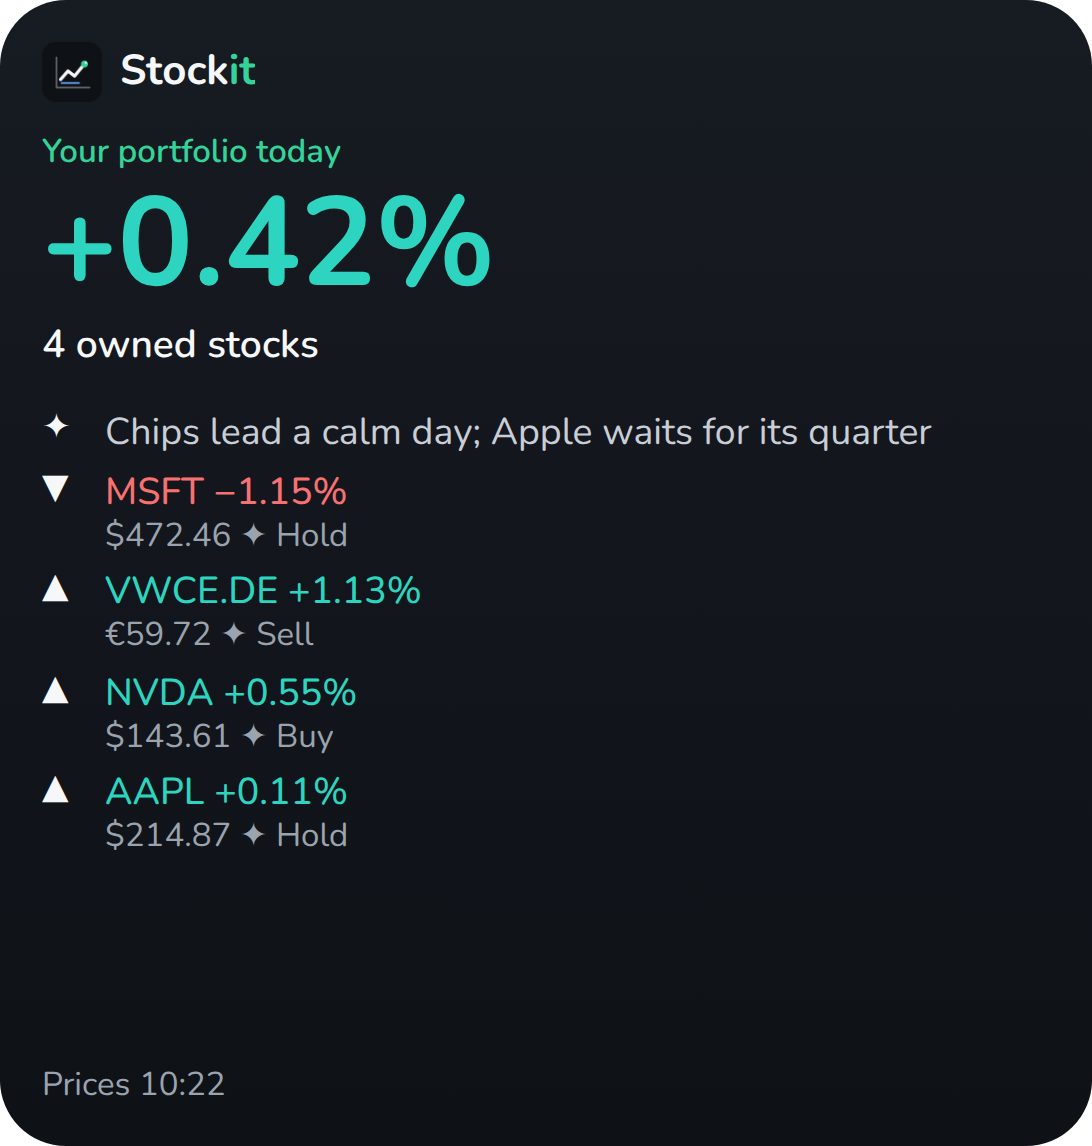
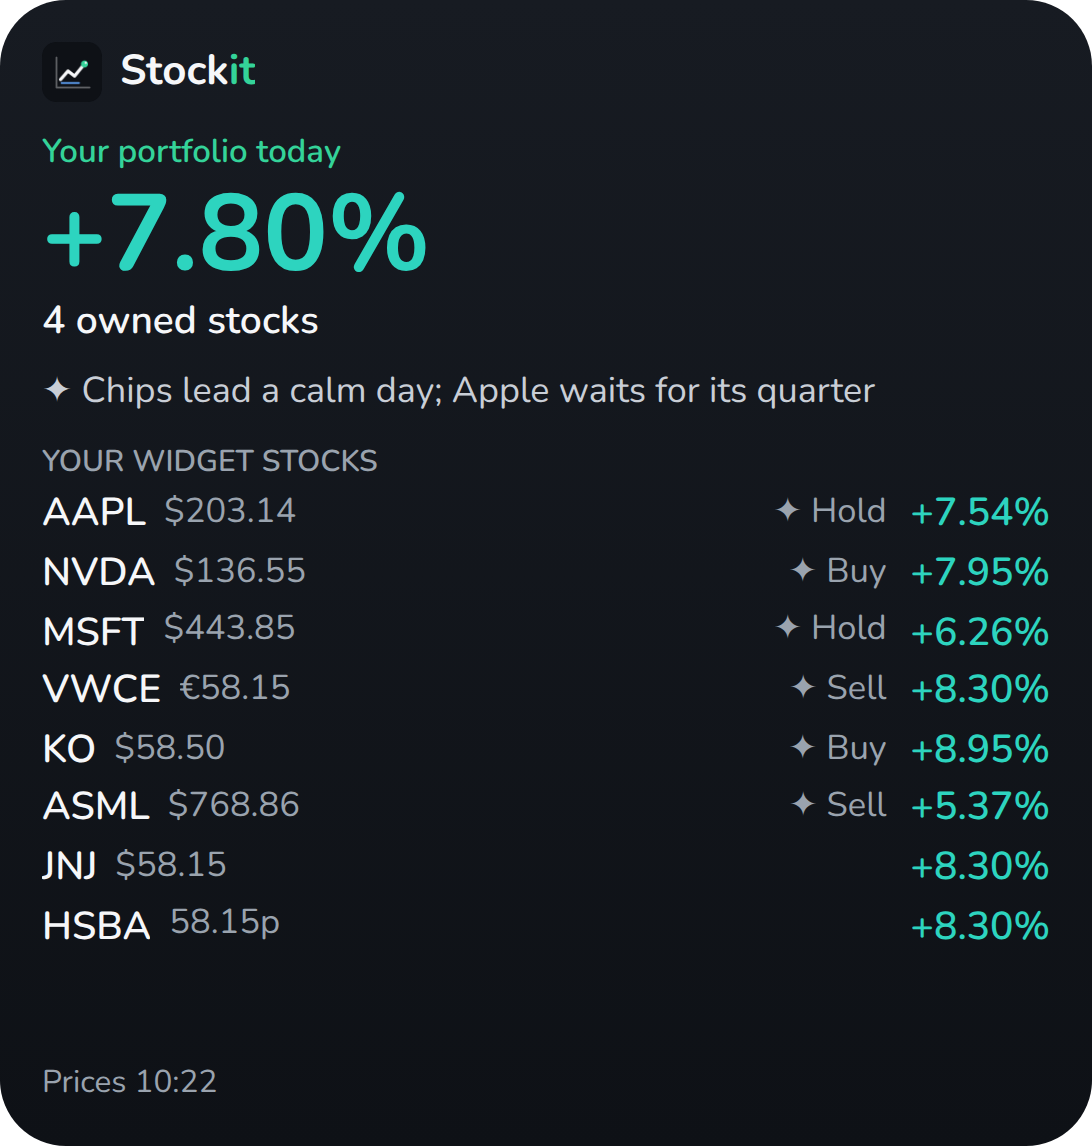
Stockit 1.21.0: pin stocks to the widget, compact 8-ticker widget, hide amounts from Shortcuts (Back Tap)

diff --git a/Stockit.js b/Stockit.js
@@ -29,7 +29,7 @@
  */
 
 // This build's version. When releasing, bump it and add a matching entry to releases.json.
-const VERSION = '1.20.3';
+const VERSION = '1.21.0';
 const APP_ID = 'stockit';   // unique per app, never changes
 const REPO_RAW = 'https://raw.githubusercontent.com/gadominas/StockIt/main/';
 const SCRIPT_FILE = 'Stockit.js';   // the script's file name in the repository
@@ -1781,7 +1781,7 @@ function clientState() {
   const view = x => {
       const m = market[x.s] || {};
       return {
-        s: x.s, name: m.name || x.name || x.s, exch: m.exch || x.exch || "", list: x.list, sh: x.sh || 0, cost: x.cost || 0, pin: !!x.pin, hl: !!x.hl, idx: stocks.indexOf(x),
+        s: x.s, name: m.name || x.name || x.s, exch: m.exch || x.exch || "", list: x.list, sh: x.sh || 0, cost: x.cost || 0, pin: !!x.pin, hl: !!x.hl, wpin: !!x.wpin, idx: stocks.indexOf(x),
         price: m.price, prev: m.prev, cur: m.cur || "", mt: m.mt || 0, tz: m.tz || "", tp: m.tp || null, type: m.type || "", at: m.at || 0, err: m.err || null, pts: m.pts || [],
         st: stats(m), trend: trendOf(m), f: m.f || {}, fAt: m.fAt || 0, prof: m.prof || null, news: m.news || [], newsAt: m.newsAt || 0, crowd: m.crowd || null,
         sig: sigFor(x.s), bstory: insights.briefing && insights.briefing.stocks && insights.briefing.stocks[x.s] ? insights.briefing.stocks[x.s].story : "",
@@ -1982,7 +1982,7 @@ async function handle(m) {
     }
     case "mark": {   // pin to the top of its list, or highlight
       const y = stocks.find(z => z.s === m.s);
-      if (y && (m.k === "pin" || m.k === "hl")) { if (m.v) y[m.k] = true; else delete y[m.k]; write("stocks", stocks); }
+      if (y && (m.k === "pin" || m.k === "hl" || m.k === "wpin")) { if (m.v) y[m.k] = true; else delete y[m.k]; write("stocks", stocks); if (m.k === "wpin") saveWidget(widgetSnapshot()); }
       return push();
     }
     case "move": if (x) { x.list = m.v === "own" ? "own" : "watch"; if (x.list === "own" && !x.sh) await editHolding(x); saveAll(); push(); saveWidget(widgetSnapshot()); } return;
@@ -2654,7 +2654,7 @@ function clientApp() {
     if (!items.length) return head + `<section class="empty small"><p>${tab === "own" ? "No owned stocks yet. Open one from your watchlist and tap <b>I own this</b>, or add one with +." : "Nothing on your watchlist. Add stocks you're curious about with +."}</p></section>`;
     const sorts = [["mine", "Mine"]].concat(tab === "own" ? [["value", "Value"]] : []).concat([["today", "Today"], ["signal", "Signal"], ["az", "A–Z"]]);
     const cur = tab === "watch" && sort === "value" ? "today" : sort;
-    if (arrange) return head + `<div class="listbar arr-bar"><span>Drag ≡ to move · 📌 pins to the top · ★ highlights</span><button class="sm primary" data-act="arrange" data-v="0">Done</button></div>
+    if (arrange) return head + `<div class="listbar arr-bar"><span>Drag ≡ to move · 📌 top of the list · ▦ on the widget · ★ highlight</span><button class="sm primary" data-act="arrange" data-v="0">Done</button></div>
       <div class="rows arr-rows" data-list="${tab === "own" ? "own" : "watch"}">${sortRows(items).map(arrRow).join("")}</div>`;
     return head + `<div class="listbar"><span>${items.length} ${tab === "own" ? "owned" : "watching"} <button class="link small" data-act="arrange" data-v="1">Arrange</button></span><div class="seg">${sorts.map(([v, l]) => `<button class="${cur === v ? "on" : ""}" data-act="sort" data-v="${v}">${l}</button>`).join("")}</div></div>
       <div class="rows">${sortRows(items).map(row).join("")}</div>`;
@@ -2746,12 +2746,21 @@ function clientApp() {
   document.addEventListener("touchcancel", () => endPull(true));
 
   // Arrange: drag rows by ≡ into your own order, pin to the top, highlight. Long-pressing a row also starts it.
+  const WID_I = `<svg class="pin-i" viewBox="0 0 24 24" aria-hidden="true"><rect x="3" y="3" width="8" height="8" rx="2" fill="currentColor"/><rect x="13" y="3" width="8" height="8" rx="2" fill="currentColor" opacity=".55"/><rect x="3" y="13" width="8" height="8" rx="2" fill="currentColor" opacity=".55"/><rect x="13" y="13" width="8" height="8" rx="2" fill="currentColor"/></svg>`;
   const PIN_I = `<svg class="pin-i" viewBox="0 0 24 24" aria-hidden="true"><path d="M15 3l6 6-3 1-4 4 .5 4.5L13 20l-4-4-5 5-1-1 5-5-4-4 1.5-1.5L10 10l4-4z" fill="currentColor"/></svg>`;
+  function widgetPicksHTML() {
+    const pins = S.stocks.filter(x => x.wpin).sort((a, b) => a.idx - b.idx);
+    return `<div class="srow col"><b>Stocks on the widget</b>
+      <small class="muted">${pins.length ? `${pins.length} pinned, in your order${pins.length > 8 ? " (the first 8 show)" : ""}: ` + pins.map(x => `<button class="chip wchip" data-act="mark" data-k="wpin" data-v="${esc(x.s)}" aria-label="Remove ${esc(x.s)} from the widget">${esc(x.s)} ×</button>`).join(" ")
+        : "None pinned, so it shows your best performers today (from the watchlist when you own none). Pin up to 8 with ▦ in Arrange or on a stock's page."}</small>
+      <small class="muted">Hide amounts without opening Stockit: in Shortcuts, add Scriptable's Run Script for Stockit with the parameter <b>hide</b> (or <b>show</b>), then choose it in Settings › Accessibility › Touch › Back Tap (Double Tap to hide, Triple Tap to show), or for the Action Button. A widget whose parameter is <b>private</b> never shows amounts.</small></div>`;
+  }
   function arrRow(x) {
     return `<div class="row arr ${x.hl ? "hl" : ""} ${x.pin ? "pinned" : ""}" data-v="${esc(x.s)}">
       <button class="drag-h" aria-label="Move ${esc(x.s)}">≡</button>
       <div class="r-l"><b class="sym">${esc(x.s)}${x.pin ? PIN_I : ""}${x.hl ? `<span class="hl-star">★</span>` : ""}</b><small>${esc(x.name)}</small></div>
       <div class="arr-btns"><button class="arr-b ${x.pin ? "on" : ""}" data-act="mark" data-k="pin" data-v="${esc(x.s)}" aria-pressed="${x.pin}" aria-label="${x.pin ? "Unpin" : "Pin to the top"}">${PIN_I}</button>
+        <button class="arr-b wid ${x.wpin ? "on" : ""}" data-act="mark" data-k="wpin" data-v="${esc(x.s)}" aria-pressed="${x.wpin}" aria-label="${x.wpin ? "Remove from the widget" : "Show on the widget"}">${WID_I}</button>
         <button class="arr-b star ${x.hl ? "on" : ""}" data-act="mark" data-k="hl" data-v="${esc(x.s)}" aria-pressed="${x.hl}" aria-label="${x.hl ? "Remove highlight" : "Highlight"}">★</button></div></div>`;
   }
   let drag = null, pressT = null, pressAt = null, swallowClick = 0;
@@ -3107,6 +3116,7 @@ function clientApp() {
         : `<button class="sm primary" data-act="move" data-v="own" data-s="${esc(x.s)}">I own this</button>`}
       <button class="sm" data-act="mark" data-k="pin" data-v="${esc(x.s)}">${x.pin ? "Unpin" : "📌 Pin to the top"}</button>
       <button class="sm" data-act="mark" data-k="hl" data-v="${esc(x.s)}">${x.hl ? "Remove highlight" : "★ Highlight"}</button>
+      <button class="sm" data-act="mark" data-k="wpin" data-v="${esc(x.s)}">${x.wpin ? "Remove from the widget" : "▦ Show on the widget"}</button>
       <button class="sm danger ${rmArmed === x.s ? "armed" : ""}" data-act="remove" data-v="${esc(x.s)}">${rmArmed === x.s ? "Confirm" : "Remove"}</button></div></section>`;
   }
 
@@ -3188,6 +3198,7 @@ function clientApp() {
       <div class="srow"><div class="grow"><b>Show your money in</b><small class="muted">Portfolio value, today and gains, here and in the widget. Stocks in other currencies are converted at today's rate. ${S.fx && S.fx.choice === "auto" ? `Auto uses the currency most of your money is in (now ${esc(HOME())}).` : ""}</small></div>
         <select id="homeCur" class="cursel" aria-label="Currency">${[["auto", "Auto"]].concat(((S.fx && S.fx.curs) || []).map(c2 => [c2, c2])).map(([v, l]) => `<option value="${v}" ${(S.fx && S.fx.choice) === v ? "selected" : ""}>${l}</option>`).join("")}</select></div>
       ${sw("widgetMoney", "Show portfolio value in the widget", "Off: the widget shows only percentages, never amounts")}
+      ${widgetPicksHTML()}
       <h3 class="sec">News and signals</h3>
       ${sw("newsYahoo", "Yahoo Finance headlines", "Business news about each stock")}
       ${sw("newsWeb", "Headlines from the web", "Wider coverage through Google News, including blogs and big newspapers")}
@@ -4127,7 +4138,7 @@ function clientApp() {
       case "tab": arrange = false; if (tab === "own" && v !== "own" && S.briefing && S.settings.briefSeen !== S.briefing.at) { S.settings.briefSeen = S.briefing.at; send("set", { k: "briefSeen", v: S.briefing.at }); } if (v !== "own") { briefFold = null; briefFull = false; } tab = v; if (v !== "ideas") send("set", { k: "tab", v }); else if (S.settings.hasKey) send("stratdue", {}); render(); window.scrollTo(0, 0); break;
       case "sort": sort = v; send("set", { k: "sort", v }); render(); break;
       case "arrange": if (v === "1") startArrange(); else { arrange = false; render(); } break;
-      case "mark": { const y = byS(v), k = t.dataset.k; if (!y) break; y[k] = !y[k]; send("mark", { s: v, k, v: y[k] }); if (openSym) renderDetail(); render(); window.toast(k === "pin" ? (y[k] ? `${v} pinned to the top` : `${v} unpinned`) : (y[k] ? `${v} highlighted` : `${v} highlight removed`)); break; }
+      case "mark": { const y = byS(v), k = t.dataset.k; if (!y) break; y[k] = !y[k]; send("mark", { s: v, k, v: y[k] }); if (openSym) renderDetail(); render(); window.toast(k === "pin" ? (y[k] ? `${v} pinned to the top` : `${v} unpinned`) : k === "wpin" ? (y[k] ? `${v} is on the widget` : `${v} left the widget`) : (y[k] ? `${v} highlighted` : `${v} highlight removed`)); break; }
       case "refresh": if (!progress) send("refresh", { force: true }); break;
       case "newsopen": openNews(t.dataset.s, v); break;
       case "fold": setFold([v], t.dataset.on === "1"); break;
@@ -4914,7 +4925,8 @@ html[data-font=serif] .tl-story p{font-family:var(--serif)}
 .arr-btns{display:flex;gap:6px;flex:none}
 .arr-b{width:40px;height:40px;border-radius:20px;display:grid;place-items:center;color:var(--muted);background:var(--sheet);box-shadow:inset 0 0 0 1px var(--rule);font-size:18px}
 .arr-b .pin-i{margin:0;width:17px;height:17px;color:inherit}
-.arr-b.on{color:var(--paper);background:var(--signal);box-shadow:none} .arr-b.star.on{background:var(--amber)}
+.arr-b.on{color:var(--paper);background:var(--signal);box-shadow:none} .arr-b.star.on{background:var(--amber)} .arr-b.wid.on{background:var(--up)}
+.srow.col{flex-direction:column;align-items:flex-start;gap:4px} .wchip{margin:2px 2px 0 0;font-size:calc(12px * var(--ts))}
 /* My strategies */
 .idea-trend{margin:14px 0 6px;line-height:1.65}
 .idea-trend .chip{margin-right:4px;vertical-align:1px}
@@ -5051,18 +5063,23 @@ window.__boot = function (st) {
 // portfolio value only when "Show portfolio value in the widget" is on. Saved after refreshes, edits and new AI text.
 function widgetSnapshot(pricesAt) {
   const tot = totals()[0] || null;
-  const rows = stocks.map(x => {
+  const all = stocks.map(x => {
     const m = market[x.s] || {}, sg = sigFor(x.s);
-    return { s: x.s, own: x.list === "own", chg: dayPct(m), price: m.price, cur: m.cur || "", sig: sg ? sg.signal : "" };
-  }).filter(r => r.chg != null);
+    return { s: x.s, own: x.list === "own", chg: dayPct(m), price: m.price, cur: m.cur || "", sig: sg ? sg.signal : "", wpin: !!x.wpin };
+  });
+  const rows = all.filter(r => r.chg != null);
   const own = rows.filter(r => r.own), base = own.length ? own : rows;
+  // The widget's stocks: the ones you pinned to it (in your order), else your best performers today, else your watchlist's
+  const pinned = all.filter(r => r.wpin), best = base.slice().sort((a, b2) => b2.chg - a.chg);
   const avg = base.length ? base.reduce((a, r) => a + r.chg, 0) / base.length : null;
   const b = insights.briefing;
   return {
     n: stocks.length, owned: stocks.filter(x => x.list === "own").length, scope: own.length ? "own" : "watch",
     dayPct: tot && tot.value - tot.day ? tot.day / (tot.value - tot.day) * 100 : avg,
     value: tot && settings.widgetMoney && !settings.privacy ? { v: tot.value, day: tot.day, cur: tot.cur } : null,   // privacy mode hides it here too
-    movers: base.slice().sort((a, b2) => Math.abs(b2.chg) - Math.abs(a.chg)).slice(0, 6),
+    movers: (pinned.length ? pinned : best).slice(0, 8),
+    pick: pinned.length ? "pinned" : own.length ? "best-own" : "best-watch",
+    private: !!settings.privacy,   // privacy mode (the eye, or a Back Tap shortcut): amounts hidden on the widget too
     headline: b && Date.now() - b.at < 48 * 3600e3 ? b.headline : "",
     prices: pricesAt || settings.lastRefresh || 0,
   };
@@ -5090,15 +5107,21 @@ async function widgetModel(param, family) {
   const rows = (d.headline && family === "large" ? [{ icon: "✦", text: d.headline, lines: 2 }] : [])
     .concat((d.movers || []).map(r => ({ icon: r.chg >= 0 ? "▲" : "▼", text: `${r.s}  ${wPct(r.chg)}`, tone: tone(r.chg),
       sub: [r.price != null ? (MINOR[r.cur] ? r.price.toFixed(2) + "p" : wMoney(r.price, r.cur)) : "", r.sig ? "✦ " + r.sig[0].toUpperCase() + r.sig.slice(1) : ""].filter(Boolean).join("  ") })));
+  const hide = d.private || /priv|hide|mask/i.test(String(param || ""));
+  const cells = (d.movers || []).map(r => ({ s: r.s.replace(/\.(DE|F|L|PA|AS|MI|TO|V|SW|ST|OL|CO|HE|VI|BR|MC|LS|T|HK|AX)$/, "").slice(0, 8),
+    pct: wPct(r.chg), tone: tone(r.chg), price: r.price != null ? (MINOR[r.cur] ? r.price.toFixed(2) + "p" : wMoney(r.price, r.cur)) : "",
+    sig: r.sig ? r.sig[0].toUpperCase() + r.sig.slice(1) : "" }));
   const kicker = d.scope === "own" ? "Your portfolio today" : "Your watchlist today";
   const footer = d.prices ? "Prices " + wWhen(d.prices) : "";
   const accessory = { glyph: d.dayPct >= 0 ? "▲" : "▼", inline: `${d.dayPct >= 0 ? "▲" : "▼"} ${wPct(d.dayPct)} today`, value: d.dayPct == null ? "–" : (d.dayPct >= 0 ? "+" : "") + d.dayPct.toFixed(1) };
-  if (d.value) {
+  const pickNote = d.pick === "pinned" ? "Your widget stocks" : d.pick === "best-own" ? "Best today" : "Best on your watchlist";
+  const headline = d.headline && family === "large" ? d.headline : "";
+  if (d.value && !hide) {
     return { badge: wPct(d.dayPct), badgeTone: tone(d.dayPct), kicker, value: wMoney(d.value.v, d.value.cur, true),
-      caption: `${d.value.day >= 0 ? "+" : "−"}${wMoney(Math.abs(d.value.day), d.value.cur, true)} today`, rows, footer, at: d.prices, accessory };
+      caption: `${d.value.day >= 0 ? "+" : "−"}${wMoney(Math.abs(d.value.day), d.value.cur, true)} today`, rows, cells, pickNote, headline, footer, at: d.prices, accessory };
   }
   return { kicker, value: wPct(d.dayPct), valueTone: tone(d.dayPct), caption: d.scope === "own" ? `${d.owned} owned stock${d.owned === 1 ? "" : "s"}` : `${d.n} on your watchlist`,
-    rows, footer, at: d.prices, accessory };
+    rows, cells, pickNote, headline, footer: footer + (hide && d.value ? "  ·  amounts hidden" : ""), at: d.prices, accessory };
 }
 
 // ───────── Widget ─────────
@@ -5219,6 +5242,7 @@ async function renderWidget(m) {
   g.startPoint = new Point(0, 0); g.endPoint = new Point(0, 1);
   w.backgroundGradient = g;
   w.setPadding(14, 14, 14, 14);
+  if (m.cells && m.cells.length && fam === 'medium') w.setPadding(12, 14, 12, 14);   // room for 8 tickers
 
   // 1. Header: logo tile, name (highlighted part in the accent), badge
   const hd = w.addStack();
@@ -5249,6 +5273,8 @@ async function renderWidget(m) {
     Script.setWidget(w);
     return;
   }
+
+  if (m.cells && m.cells.length) { renderCells(w, m, fam); Script.setWidget(w); return; }
 
   // 2. Hero: kicker, then a big value with its caption, or a title with its caption
   const body = w.addStack();
@@ -5281,6 +5307,54 @@ async function renderWidget(m) {
   const ft = small ? (m.footer || m.badge) : m.footer;
   if (ft) wText(w, (m.stale ? '⟳ ' : '') + ft, 11, 'reg', m.stale ? 'warn' : 'muted');
   Script.setWidget(w);
+}
+
+// Compact layout with ticker cells (Stockit 1.21.0): small 4, medium 8 in two columns under a one-line summary,
+// large 8 one-line rows with price and signal under the usual hero.
+function wCell(stack, c, o) {
+  const row = stack.addStack();
+  row.centerAlignContent();
+  if (o.width) row.size = new Size(o.width, o.h || 0);
+  wText(row, c.s, o.size, 'semi', 'ink');
+  if (o.price && c.price) { row.addSpacer(6); wText(row, c.price, o.size - 1.5, 'reg', 'muted'); }
+  row.addSpacer();
+  if (o.sig && c.sig) { wText(row, '✦ ' + c.sig, o.size - 1.5, 'reg', 'muted'); row.addSpacer(8); }
+  wText(row, c.pct, o.size, 'semi', c.tone);
+}
+function renderCells(w, m, fam) {
+  const small = fam === 'small', medium = fam === 'medium';
+  if (medium) {   // one line: what the numbers are, the value (or the day's %), today
+    const top = w.addStack(); top.centerAlignContent();
+    wText(top, m.kicker || '', 11, 'semi', m.kickerTone || 'accent');
+    top.addSpacer(8);
+    wText(top, m.value || '', 13, 'bold', m.valueTone || 'ink');
+    if (m.badge && m.caption) { top.addSpacer(6); wText(top, m.caption, 11, 'reg', 'muted'); }
+    top.addSpacer();
+    w.addSpacer(7);
+    const cells = m.cells.slice(0, 8), half = Math.ceil(cells.length / 2), colW = 139;
+    for (let i = 0; i < half; i++) {
+      if (i) w.addSpacer(4);
+      const line = w.addStack(); line.centerAlignContent();
+      wCell(line, cells[i], { size: 12.5, width: colW });
+      line.addSpacer(14);
+      if (cells[i + half]) wCell(line, cells[i + half], { size: 12.5, width: colW });
+    }
+  } else if (small) {
+    wText(w, m.value || '', 26, 'bold', m.valueTone || 'ink');
+    w.addSpacer(5);
+    m.cells.slice(0, 4).forEach((c, i) => { if (i) w.addSpacer(3); wCell(w, c, { size: 12 }); });
+  } else {   // large
+    if (m.kicker) wText(w, m.kicker, 11, 'semi', m.kickerTone || 'accent');
+    wText(w, m.value || '', 36, 'bold', m.valueTone || 'ink');
+    if (m.caption) wText(w, m.caption, 13, 'semi', 'ink');
+    if (m.headline) { w.addSpacer(8); wText(w, '✦ ' + m.headline, 12, 'reg', 'soft', 2); }
+    w.addSpacer(10);
+    wText(w, (m.pickNote || '').toUpperCase(), 10, 'semi', 'muted');
+    w.addSpacer(4);
+    m.cells.slice(0, 8).forEach((c, i) => { if (i) w.addSpacer(4); wCell(w, c, { size: 13, price: true, sig: true }); });
+  }
+  w.addSpacer();
+  if (!small && m.footer) wText(w, (m.stale ? '⟳ ' : '') + m.footer, 10.5, 'reg', m.stale ? 'warn' : 'muted');
 }
 
 // Lock Screen: iOS tints these, so text only, no colours or logo.
@@ -5415,9 +5489,25 @@ async function main() {
 }
 
 // Settings are loaded at the top of the script (load("settings")), before every branch; data is read in each branch.
+// "privacy on", "privacy off" or "privacy toggle" from Shortcuts (Run Script's parameter) or the URL
+// scriptable:///run/Stockit?privacy=on: amounts hidden or shown in Stockit and on the widget, without opening Stockit.
+const privacyCmd = (() => {
+  const q = (args.queryParameters || {}).privacy, p = typeof args.shortcutParameter === "string" ? args.shortcutParameter : "";
+  const m = String(q != null ? "privacy " + q : p).toLowerCase().match(/^\s*(?:privacy|hide|show|mask|unmask)\b\s*(on|off|toggle)?/);
+  if (!m) return null;
+  if (/^\s*(hide|mask)/.test(p)) return "on";
+  if (/^\s*(show|unmask)/.test(p)) return "off";
+  return m[1] || "toggle";
+})();
 if (config.runsInWidget || config.runsInAccessoryWidget) {
   await loadData();
   await runWidget();             // never builds or presents a WebView, Alert or QuickLook
+} else if (privacyCmd) {
+  await loadData();              // never write before reading (safe-startup)
+  settings.privacy = privacyCmd === "toggle" ? !settings.privacy : privacyCmd === "on";
+  write("settings", settings);
+  saveWidget(widgetSnapshot());  // the widget shows it at its next refresh; iOS decides when that is
+  Script.setShortcutOutput(settings.privacy ? "Stockit amounts hidden" : "Stockit amounts showing");
 } else {
   await main();
 }

diff --git a/README.md b/README.md
@@ -10,7 +10,7 @@ Your stocks, the news around them and a plain-English story of what's going on.<
 
 An iPhone and iPad app for [Scriptable](https://scriptable.app). One file. No account, no server, no subscription.
 
-[![Version](https://img.shields.io/badge/version-1.20.3-1d4ed8)](CHANGELOG.md)
+[![Version](https://img.shields.io/badge/version-1.21.0-1d4ed8)](CHANGELOG.md)
 [![Platform](https://img.shields.io/badge/iOS-Scriptable-0f172a)](https://apps.apple.com/app/scriptable/id1405459188)
 [![AI](https://img.shields.io/badge/AI-Claude%20or%20OpenAI%2C%20optional-8b5cf6)](#ai-on-your-terms)
 [![Not financial advice](https://img.shields.io/badge/not-financial%20advice-b91c1c)](#not-financial-advice)
@@ -319,20 +319,29 @@ Choose the voice in **Settings › Listening**:
 ## Home-screen widget
 
 <p align="center">
-  <img src="docs/screenshots/widget-medium.png" width="338" alt="Medium widget: your portfolio's move today beside the three biggest movers with their views">&nbsp;&nbsp;
-  <img src="docs/screenshots/widget-small.png" width="158" alt="Small widget: your portfolio's move today">
+  <img src="docs/screenshots/widget-medium.png" width="338" alt="Medium widget: today's move and eight tickers in two columns">&nbsp;&nbsp;
+  <img src="docs/screenshots/widget-small.png" width="158" alt="Small widget: today's move and four tickers">
 </p>
 <p align="center">
-  <img src="docs/screenshots/widget-large.png" width="338" alt="Large widget: the portfolio's move, the briefing headline and the biggest movers">
+  <img src="docs/screenshots/widget-large.png" width="338" alt="Large widget: the portfolio's move, the briefing headline and eight stocks with price and view">
 </p>
-<p align="center"><sub><b>Medium</b>: today's move and the biggest movers · <b>Small</b>: today's move · <b>Large</b>: adds the ✦ briefing headline</sub></p>
+<p align="center"><sub><b>Medium</b>: today's move and 8 tickers · <b>Small</b>: 4 tickers · <b>Large</b>: 8 stocks with price and ✦ view, and the briefing headline</sub></p>
 
 1. Long-press your Home Screen, tap **Edit → Add Widget**, choose **Scriptable**, and pick a size.
-2. Long-press the new widget, tap **Edit Widget**, and set **Script** to *Stockit*.
+2. Long-press the new widget, tap **Edit Widget**, and set **Script** to *Stockit*. To keep amounts off this widget for good, set **Parameter** to *private*.
 
-The widget shows the Stockit logo and name and your portfolio's move today (or your watchlist's, before you own anything). The medium widget lists your three biggest movers beside it, with their price and view; the large one adds the latest ✦ briefing headline and more rows. Tapping opens Stockit. The bottom line says when prices were loaded, and turns amber (**⟳ Updated …**) when that is older than 12 hours. Lock Screen widgets show today's move as text.
+**Which stocks it shows.** Pin up to 8 stocks to the widget, from your portfolio or your watchlist: tap **▦** in **Arrange** (next to the stock count, or long-press a stock), or **▦ Show on the widget** on a stock's page. Pinned stocks show in your own order. With nothing pinned, the widget shows your best performers today from your portfolio, or from your watchlist if you own nothing yet. **Settings › Portfolio › Stocks on the widget** lists the pinned ones; tap one to take it off.
 
-The widget **shows percentages only**, never amounts of money, because it sits on an unlocked Home Screen. Turn on **Settings › Portfolio › Show portfolio value in the widget** if you want the value too.
+**Compact.** The medium widget fits 8 tickers in two columns under one summary line; the small one 4; the large one 8 with their price and ✦ view, under today's move and the ✦ briefing headline.
+
+**Amounts.** The widget shows percentages only, never amounts of money, unless you turn on **Settings › Portfolio › Show portfolio value in the widget**. Privacy mode (the eye) hides them on the widget too.
+
+**Hide amounts without opening Stockit.** iPhone apps can't use the volume buttons for their own actions, so use **Back Tap** instead:
+
+1. In **Shortcuts**, make a shortcut with Scriptable's **Run Script**: script *Stockit*, parameter *hide*. Make a second one with the parameter *show*. (Turn off **Show When Run** in both.)
+2. In **Settings › Accessibility › Touch › Back Tap**, set **Double Tap** to the *hide* shortcut and **Triple Tap** to the *show* one. On an iPhone with an Action Button, it can run the *hide* shortcut too.
+
+That switches Stockit's privacy mode on or off: the app hides amounts at once, and the widget at its next refresh, which iOS times (usually within minutes). For a widget that should never show amounts, use the *private* parameter above. The parameter *privacy toggle* switches back and forth, and `scriptable:///run/Stockit?privacy=on` (or `off`) works from anywhere that opens links.
 
 It reloads prices itself when they are older than 30 minutes, within 15 seconds, and otherwise shows what Stockit last saved; it never calls AI. Change these times in **Settings › Widget**.
 
